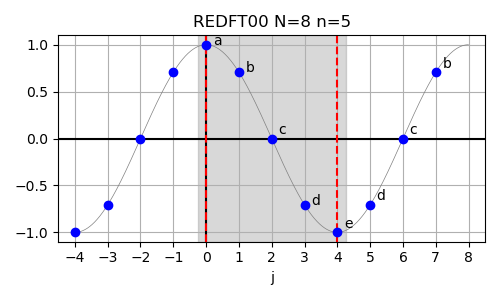
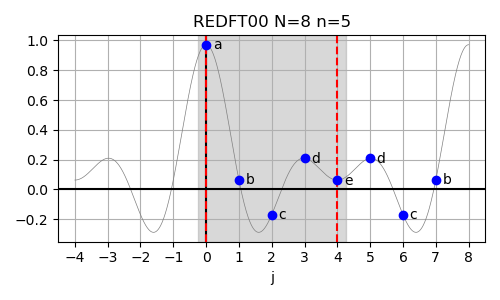
REDFT00 with proper data

Changed region(s): [[0.03, 0.42, 0.96, 0.81], [0.03, 0.12, 0.96, 0.36], [0.42, 0.3, 0.96, 0.36]]

diff --git a/img/plot_1d_redft_examples.py b/img/plot_1d_redft_examples.py
@@ -7,33 +7,60 @@ Created on Thu Mar 18 18:59:42 2021
 """
 
 import numpy as np
+from numpy.random import default_rng
 import matplotlib.pyplot as plt
 from matplotlib.ticker import MaxNLocator
 
-omega = 2.0*np.pi
-
-# eval cosine at n_ref points for background
-n_ref = 1024
-t_ref = (np.arange(-n_ref/2, n_ref))/n_ref
-y_ref = np.cos(omega*t_ref)
-y_ref_1 = np.cos(omega*(t_ref+0.5))
-y_ref_2 = np.cos(omega*t_ref/2)
-
-# logical DFT size
-N = 8
-
-t = np.arange(-N/2, N)
-y0 = np.cos(omega*t/N)
-y1 = np.cos(omega*(t+0.5)/N)
-y2 = np.cos(omega*t/N/2)
-y3 = np.cos(omega*(t+0.5)/N/2)
-
 #%% REDFT00 
-n = int(N/2)+1
+
+# compute the REDFT00 as defined in the FFTW reference manual
+def redft00(arr):
+    n = len(arr)
+    out = np.zeros([n])
+    for k in range(n):
+        out[k] += arr[0]
+        out[k] += (-1)**k * arr[-1]
+        for j in range(1, n-1):
+            out[k] += 2.0 * arr[j] * np.cos(np.pi*j*k/(n-1))
+    return out
+
+# evaluate the REDFT00 at all points given in x
+def eval_redft00(arr, x):
+    y = np.zeros_like(x)
+    y += arr[0]
+    for j in range(1,n-1):
+        y += 2.0*arr[j]*np.cos(np.pi*j*x)
+    y += arr[-1]*np.cos(np.pi*(n-1)*x)
+    return y
+
+# input size for REDFT00
+n = 5
+
+# logical size of equivalent DFT (for REDFT00)
+N = 2*(n-1)
+
+# random Fourier coefficients
+rng = default_rng(seed=42)
+r2r_in = rng.uniform(size=n)
+
+# compute output of REDFT00
+r2r_out = redft00(r2r_in)/n
+
+# extend to equivalent DFT size
+full_out_x = np.arange(n, 2*n-2)
+full_out_y = np.zeros([n-2])
+for i in range(n-2):
+    # even symmetry around n-1
+    full_out_y[i] = r2r_out[-i-2]
+
+# sample at finer intervals
+nFine = 1024
+x = np.linspace(-n+1, N, nFine)
+y = eval_redft00(r2r_in, x/(n-1))/n
 
 plt.figure(figsize=(5,3))
 
-plt.plot(t_ref*N, y_ref, '-', color='gray', linewidth=0.5)
+plt.plot(x, y, '-', color='gray', linewidth=0.5)
 plt.axhline(0, ls='-', color='k')
 plt.axvline(0, ls='-', color='k')
 
@@ -44,17 +71,20 @@ plt.axvline(n-1, ls='--', color='r')
 # highlight array contents
 plt.axvspan(0-0.25, (n-1)+0.25, alpha=0.3, color='gray')
 
-plt.plot(t, y0, 'bo')
+# plot actual REDFT00 output
+plt.plot(r2r_out, 'bo')
 
-for i in range(N):
-    if i==2 or i==4:
-        plt.text(t[int(i+N/2)]+0.2, y0[int(i+N/2)]+0.05, chr(ord("a")+i))
-    elif i>=n:
-        plt.text(t[int(i+N/2)]+0.2, y0[int(i+N/2)]+0.05, chr(ord("a")+(N-i)))
-    else:
-        plt.text(t[int(i+N/2)]+0.2, y0[int(i+N/2)], chr(ord("a")+i))
+# label individual points
+for i in range(n):
+    plt.text(i+0.2, r2r_out[i]-0.03, chr(ord("a")+i))
 
-# only integer xaxis ticks
+# plot data extending REDFT00 to full DFT
+plt.plot(full_out_x, full_out_y, 'bo')
+
+for i in range(n-2):
+    plt.text(full_out_x[i]+0.2, full_out_y[i]-0.03, chr(ord("a")+(n-2-i)))
+
+# only integer xaxis ticks at intervals of 1
 plt.gca().xaxis.set_major_locator(MaxNLocator(steps=(1,10), integer=True))
 plt.xlim((-4.5, 8.5))
 
